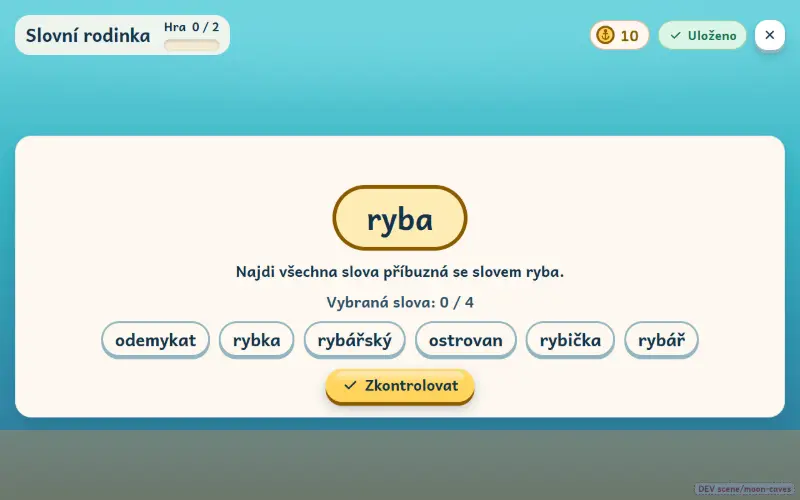
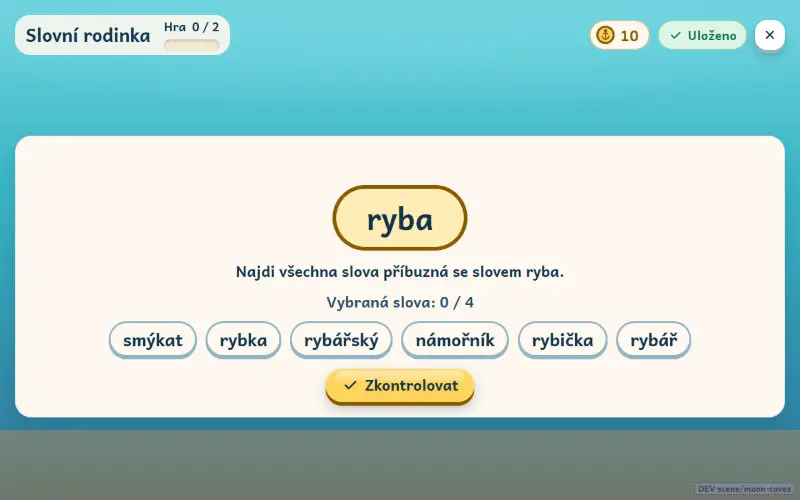
QA: hints rechecked on pack 1.2.6 (#48); screens.md on main e89faf8
On main e89faf8, with S3's families for words of one root, still no hint of the 91 the probe meets names the asked word or shows a lexicon ID. Five review pictures change with the pack (Slovní rodinka's words, the first day's quests, Pokrok, the build's version).

Changed region(s): [[0.125, 0.63, 0.875, 0.72]]

diff --git a/docs/qa/defects.md b/docs/qa/defects.md
@@ -34,8 +34,7 @@ size, with S5's paintings in place.
   to verify once they land, in the problem sampler's output and the walks.
 - **Open pull requests on the hints**, to recheck with the probe below once they land: S2's #49
   (a test that no rendered hint shows a word ID, and state version 2: a save made mid-problem
-  before #46 drops its stale hints on load) and S3's #48 (pack 1.2.6: families for words of one
-  root, so no hint takes one as another's example).
+  before #46 drops its stale hints on load).
 
 ## Hints that name the asked word
 
@@ -44,11 +43,12 @@ A browser probe opens Nápověda on every gap problem of six adventures each for
 on into Korálový útes (Edge). A hint names the asked word when one of its words begins with the
 asked word or its lemma (duby for dub). None was empty or showed a raw key.
 
-| Main                               | Hints | Name the asked word | Which                                                                                                                                |
-| ---------------------------------- | ----: | ------------------: | ------------------------------------------------------------------------------------------------------------------------------------ |
-| `75cd107` (the first two children) |    41 |                  14 | rule lines with the asked word as their example (Petr, Alík, Praha; dům – domy; neúspěch), test words (duby for dub)                 |
-| `5aa33d2` (after S3's #45)         |    91 |                  17 | test words ("Zkus si říct: duby."), and listed words, whose hint recites the whole list with the asked word in it                    |
-| `2ae633b` (after S2's #46)         |    91 |                   0 | rule lines end "Například: …" with other words, test words use another word ("třeba chléb → chleba"), listed words get the bare rule |
+| Main                                   | Hints | Name the asked word | Which                                                                                                                                |
+| -------------------------------------- | ----: | ------------------: | ------------------------------------------------------------------------------------------------------------------------------------ |
+| `75cd107` (the first two children)     |    41 |                  14 | rule lines with the asked word as their example (Petr, Alík, Praha; dům – domy; neúspěch), test words (duby for dub)                 |
+| `5aa33d2` (after S3's #45)             |    91 |                  17 | test words ("Zkus si říct: duby."), and listed words, whose hint recites the whole list with the asked word in it                    |
+| `2ae633b` (after S2's #46)             |    91 |                   0 | rule lines end "Například: …" with other words, test words use another word ("třeba chléb → chleba"), listed words get the bare rule |
+| `e89faf8` (after S3's #48, pack 1.2.6) |    91 |                   0 | the same, with families for words of one root                                                                                        |
 
 Since #46 the examples change with the asked word (útes gets "úhoř, úkol", úhoř "úkol, úkryt"; dům
 gets "kůň → koně", kůň "dům → domu"), and no hint shows a lexicon ID (PS-QA-22). For neúspěch the
